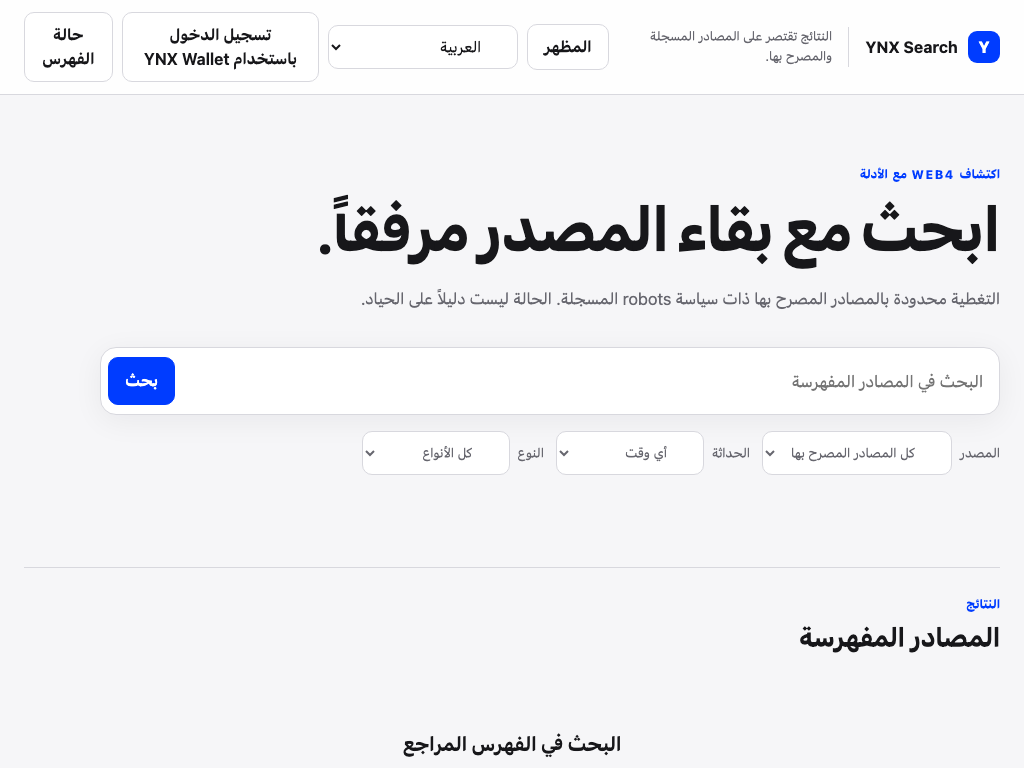
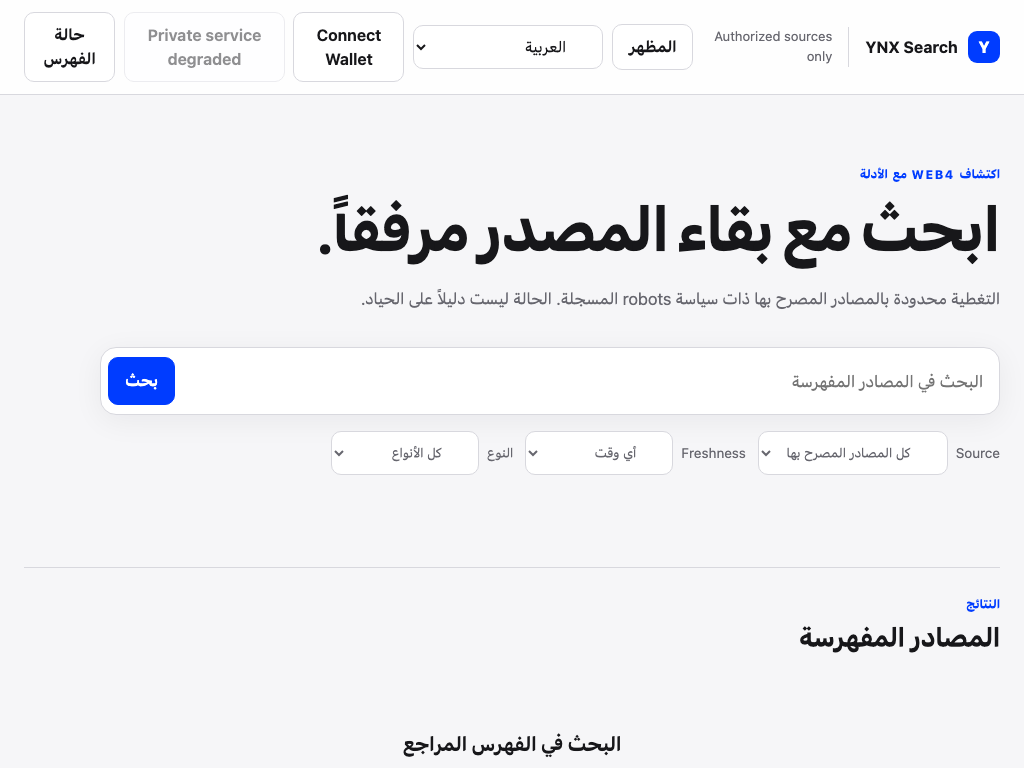
evidence(search): freeze visible wallet lifecycle checkpoint

diff --git a/apps/search/evidence/EVIDENCE_INDEX.md b/apps/search/evidence/EVIDENCE_INDEX.md
@@ -13,13 +13,18 @@
 
 `ui/` contains exact-viewport Playwright captures for desktop light/dark
 success, mobile empty, 150% mobile text, Arabic RTL tablet, and failure/retry.
+The two `search-wallet-*` captures freeze deterministic EIP-6963 approval and
+rejection while guest Search remains usable; they are not installed-Wallet or
+public-deployment evidence. `p0-search-wallet-visible-20260821.json` records
+their exact bytes, SHA-256 values, test gates, and false release boundaries.
 `staging/` contains 1440×900 and 390×844 captures of the deployed empty-index
 preview. Each visual is paired with an assertion in `test/e2e/search.spec.mjs`
 or an HTTPS smoke response.
 
 ## Verification
 
-- `npm run check`: 12 unit/integration/race/replay tests plus API smoke.
-- `npm run test:e2e`: 6 Chromium Playwright scenarios.
+- `npm test`: 19 unit/integration/race/replay/release tests.
+- `npm run smoke`: service health, bounded retrieval, CSRF and privacy clear.
+- `npm run test:e2e`: 8 Chromium Playwright scenarios.
 - `npm audit --omit=dev --audit-level=high`: zero vulnerabilities.
 - `UI_DESIGN_AUDIT.md`: manual visual/a11y/RTL review and fixed issues.
